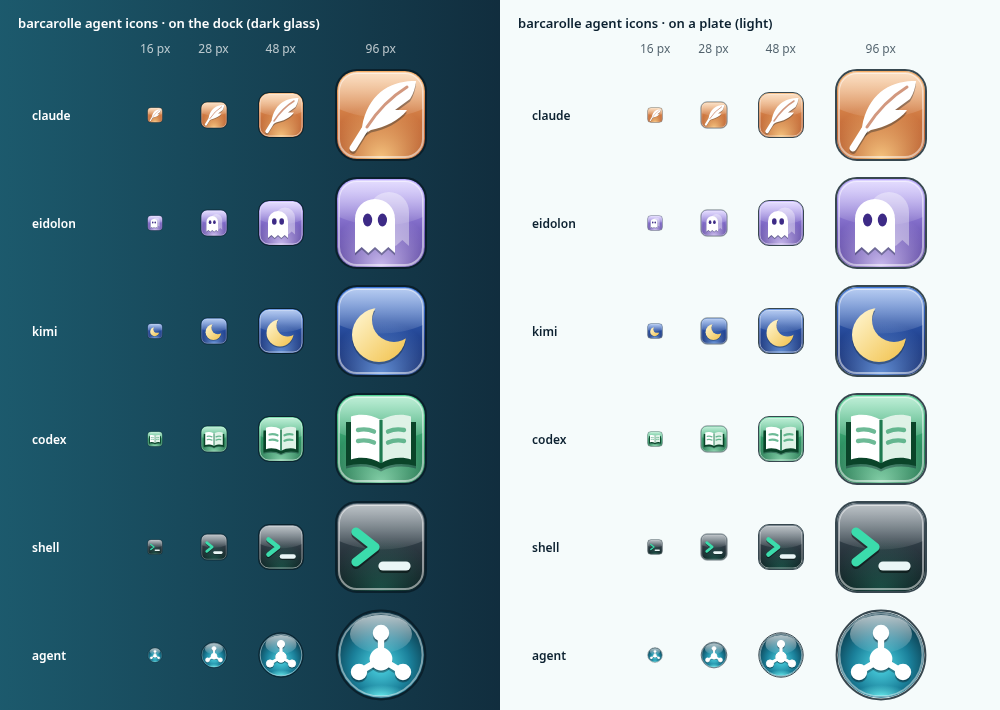
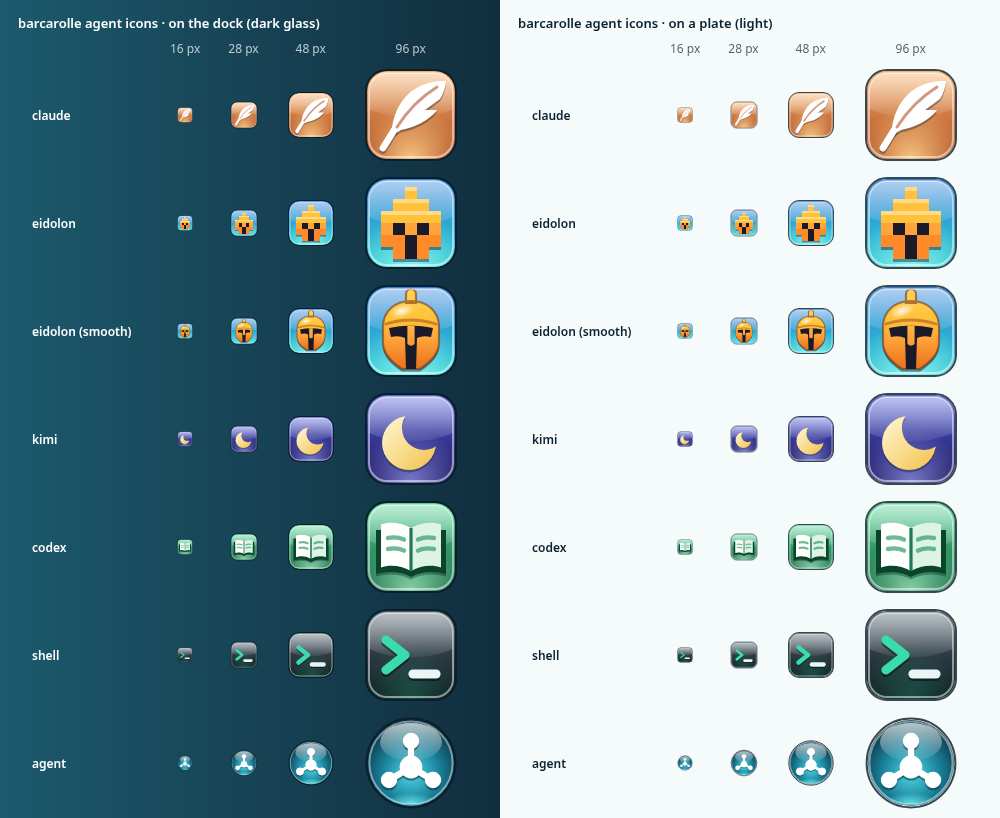
barcarolle: eidolon wears its own helmet mark, pixel by default with a smooth candidate; kimi moves to indigo

diff --git a/song/songbook/barcarolle/design/intent.md b/song/songbook/barcarolle/design/intent.md
@@ -94,19 +94,23 @@ contact sheet `agent-icons.png`. One family: a 48×48 glass tile (the
 fallback is an orb), a vertical body gradient in the kind's hue, a bottom
 bounce glow, a curved hard-edged gloss over the top half, a white inner rim
 and a dark outer rim. The mark sits above the gloss with a 1.2px dark drop so
-it holds at 16px. Every mark is original; the hue and the idea hint at the
-agent, no vendor logo is drawn or traced.
+it holds at 16px. eidolon wears its own brand: the user's project, so its
+real mark is used. Every other mark is original; the hue and the idea hint at
+the agent, no vendor logo is drawn or traced.
 
 | kind | mark | body (top → bottom) | mark colour |
 |---|---|---|---|
 | claude | a quill | amber `#f5ad66` → terracotta `#a9461f` | white, terracotta spine |
-| eidolon | a phantom with its fainter image behind it | lilac `#b9a6ff` → violet `#47308f` | white, violet eyes |
-| kimi | a crescent moon | sky `#3f78dc` → night `#0d1c58` | pale gold `#fff8d6` → `#f2c14a` |
+| eidolon | eidolon's helmet figure, a Corinthian helmet front-on: crest, crown, brow, eye slit split by the nasal, two cheek guards; hard pixel blocks on a 6-unit grid (2px at 16) | the wordmark's blue `#2f7fd8` → cyan `#2ecfcf` | yellow `#ffc23a` → amber `#ffa43a` → orange `#ff8a2a`, interior `#1a1a28` |
+| kimi | a crescent moon | indigo `#5560d6` → night `#170f52` | pale gold `#fff8d6` → `#f2c14a` |
 | codex | an open bound book | mint `#53d394` → green `#12603d` | white pages, green cover |
 | shell | the `>_` prompt | graphite `#4e5f6b` → `#0b1419` | base0B `>`, plate-white `_` |
 | agent | a glass orb holding a node and three satellites | base0C `#4fd8e6` → `#0a3242` | white |
 
-An unknown kind takes `agent`. Gradient ids are prefixed with the kind, so
+`eidolon-smooth.svg` is the other eidolon candidate: the same helmet drawn
+smooth, as Aero bronze with a dome highlight, on the same tile. kimi sits on
+indigo so its tile never reads as eidolon's blue at 16px. An unknown kind
+takes `agent`. Gradient ids are prefixed with the kind, so
 the six inline together without collision.
 
 ## Palette tokens used

diff --git a/song/songbook/barcarolle/design/ASSETS.md b/song/songbook/barcarolle/design/ASSETS.md
@@ -15,9 +15,11 @@
   each differs from its closest original by RMSE ≈ 0.11, so expect a re-grade
   or re-crop. The source match is by image comparison against the zip's
   contents; each matched its listed original more closely than any other.
-- `../icons/agents/*.svg` (claude, eidolon, kimi, codex, shell, agent) are
-  original drawings made here for this song; no vendor logo is reproduced,
-  traced or imitated. `agent-icons.png` is their contact sheet, a headless
-  Chromium render.
+- `../icons/agents/*.svg` (claude, kimi, codex, shell, agent) are original
+  drawings made here for this song; no vendor logo is reproduced, traced or
+  imitated. `../icons/agents/eidolon.svg` and its smooth candidate
+  `eidolon-smooth.svg` are drawn here after eidolon's own mark (the helmet
+  figure and the wordmark's colours); eidolon is the user's own project.
+  `agent-icons.png` is their contact sheet, a headless Chromium render.
 - `mock.png` is a headless Chromium render of `mock.html`; every glyph, icon
   and the orb mark in it are original drawings, no Microsoft artwork.
